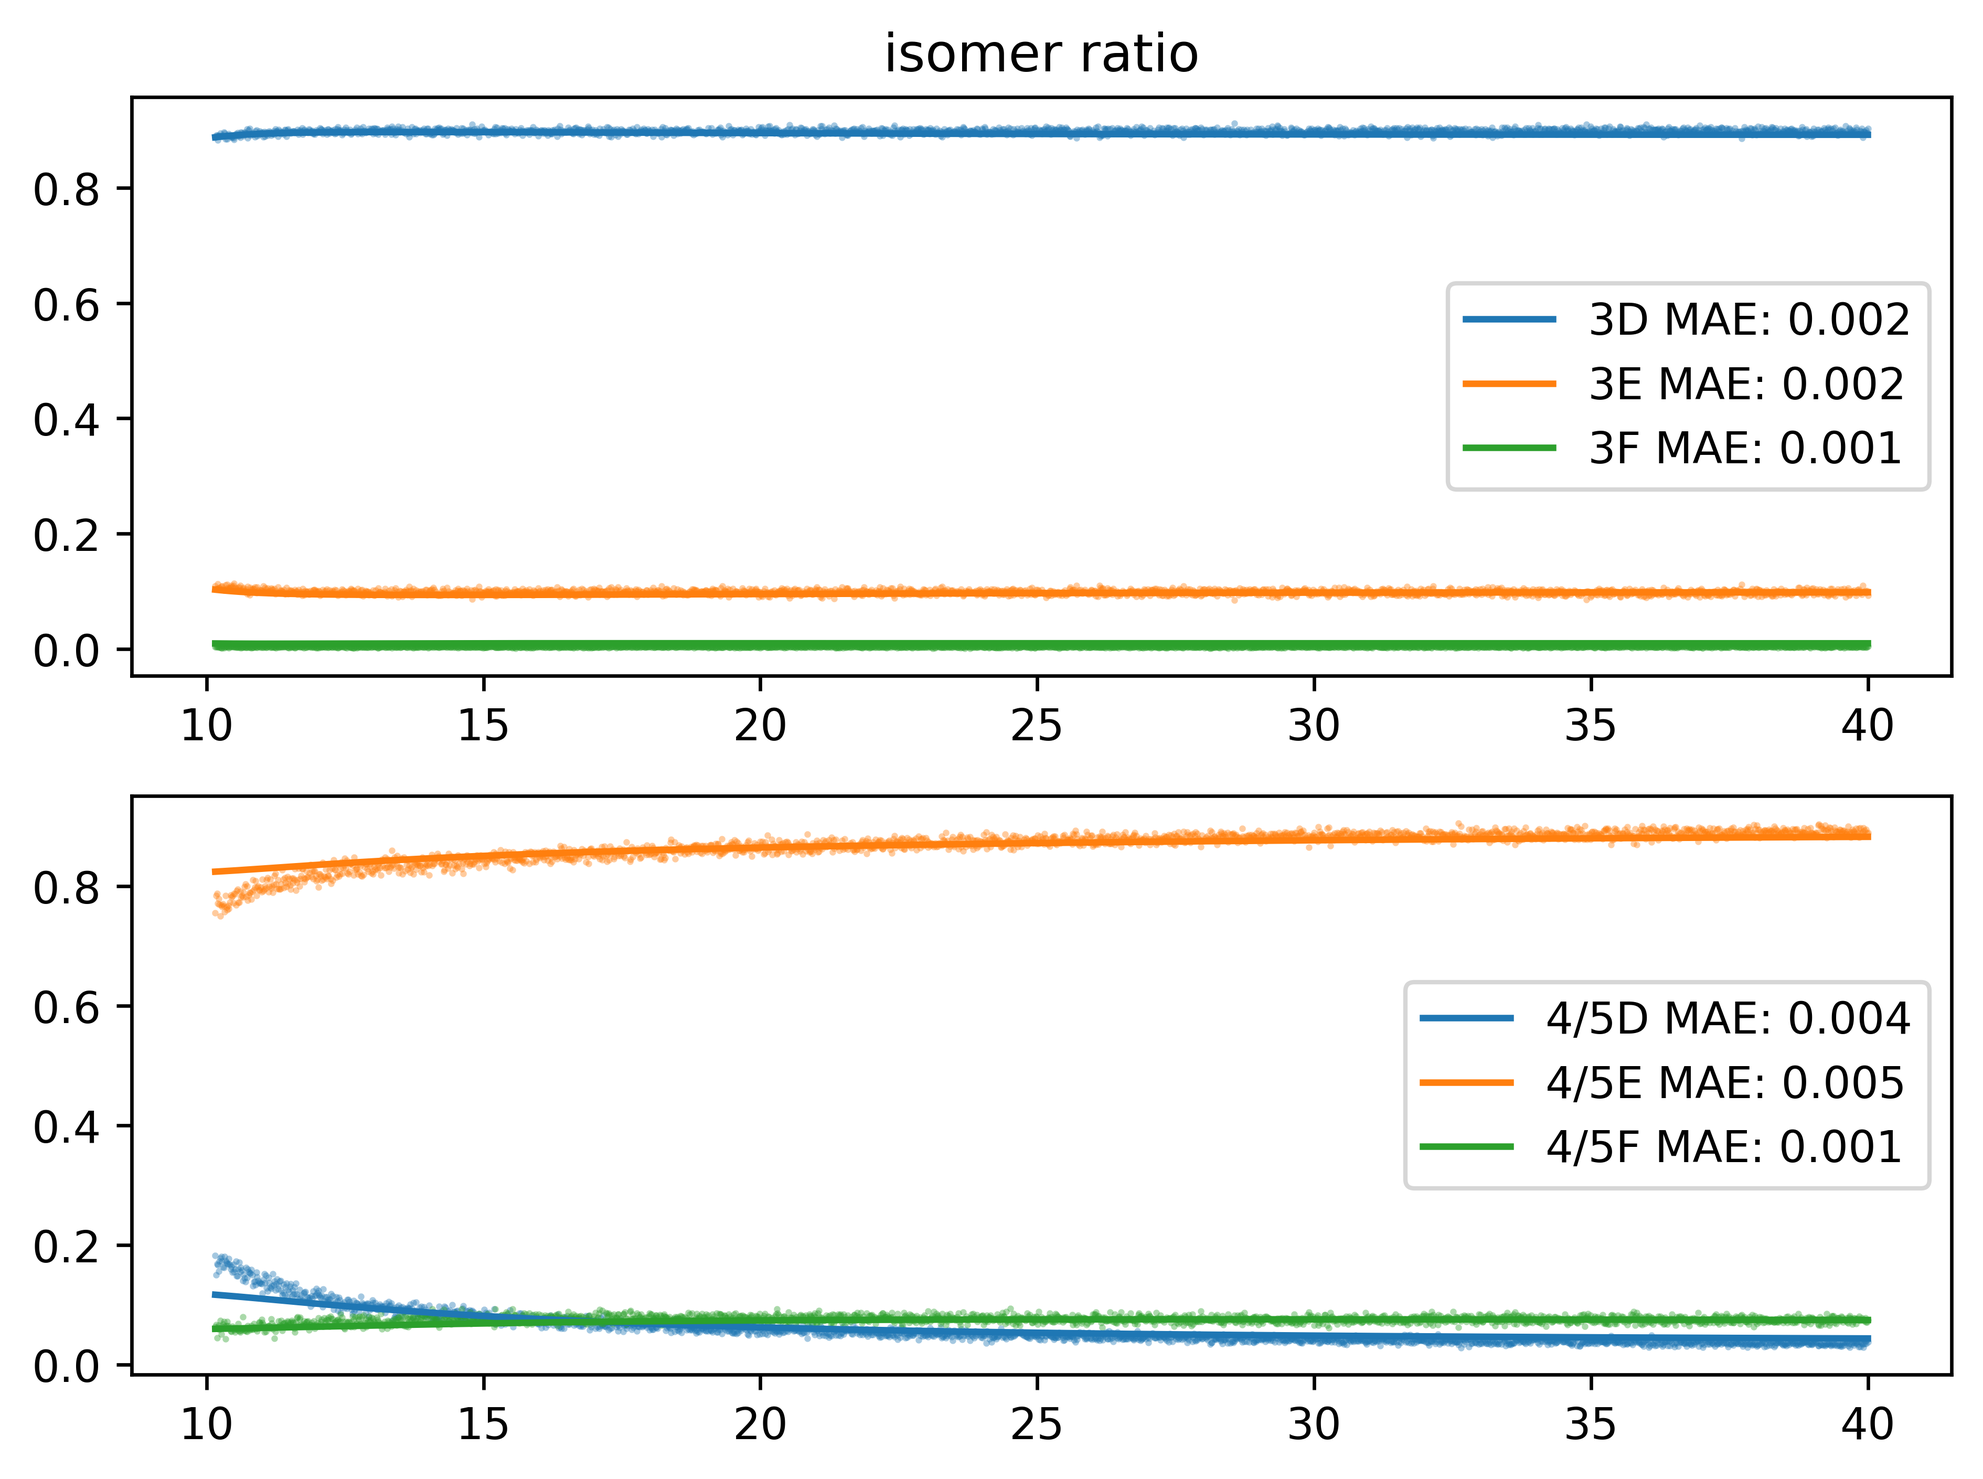
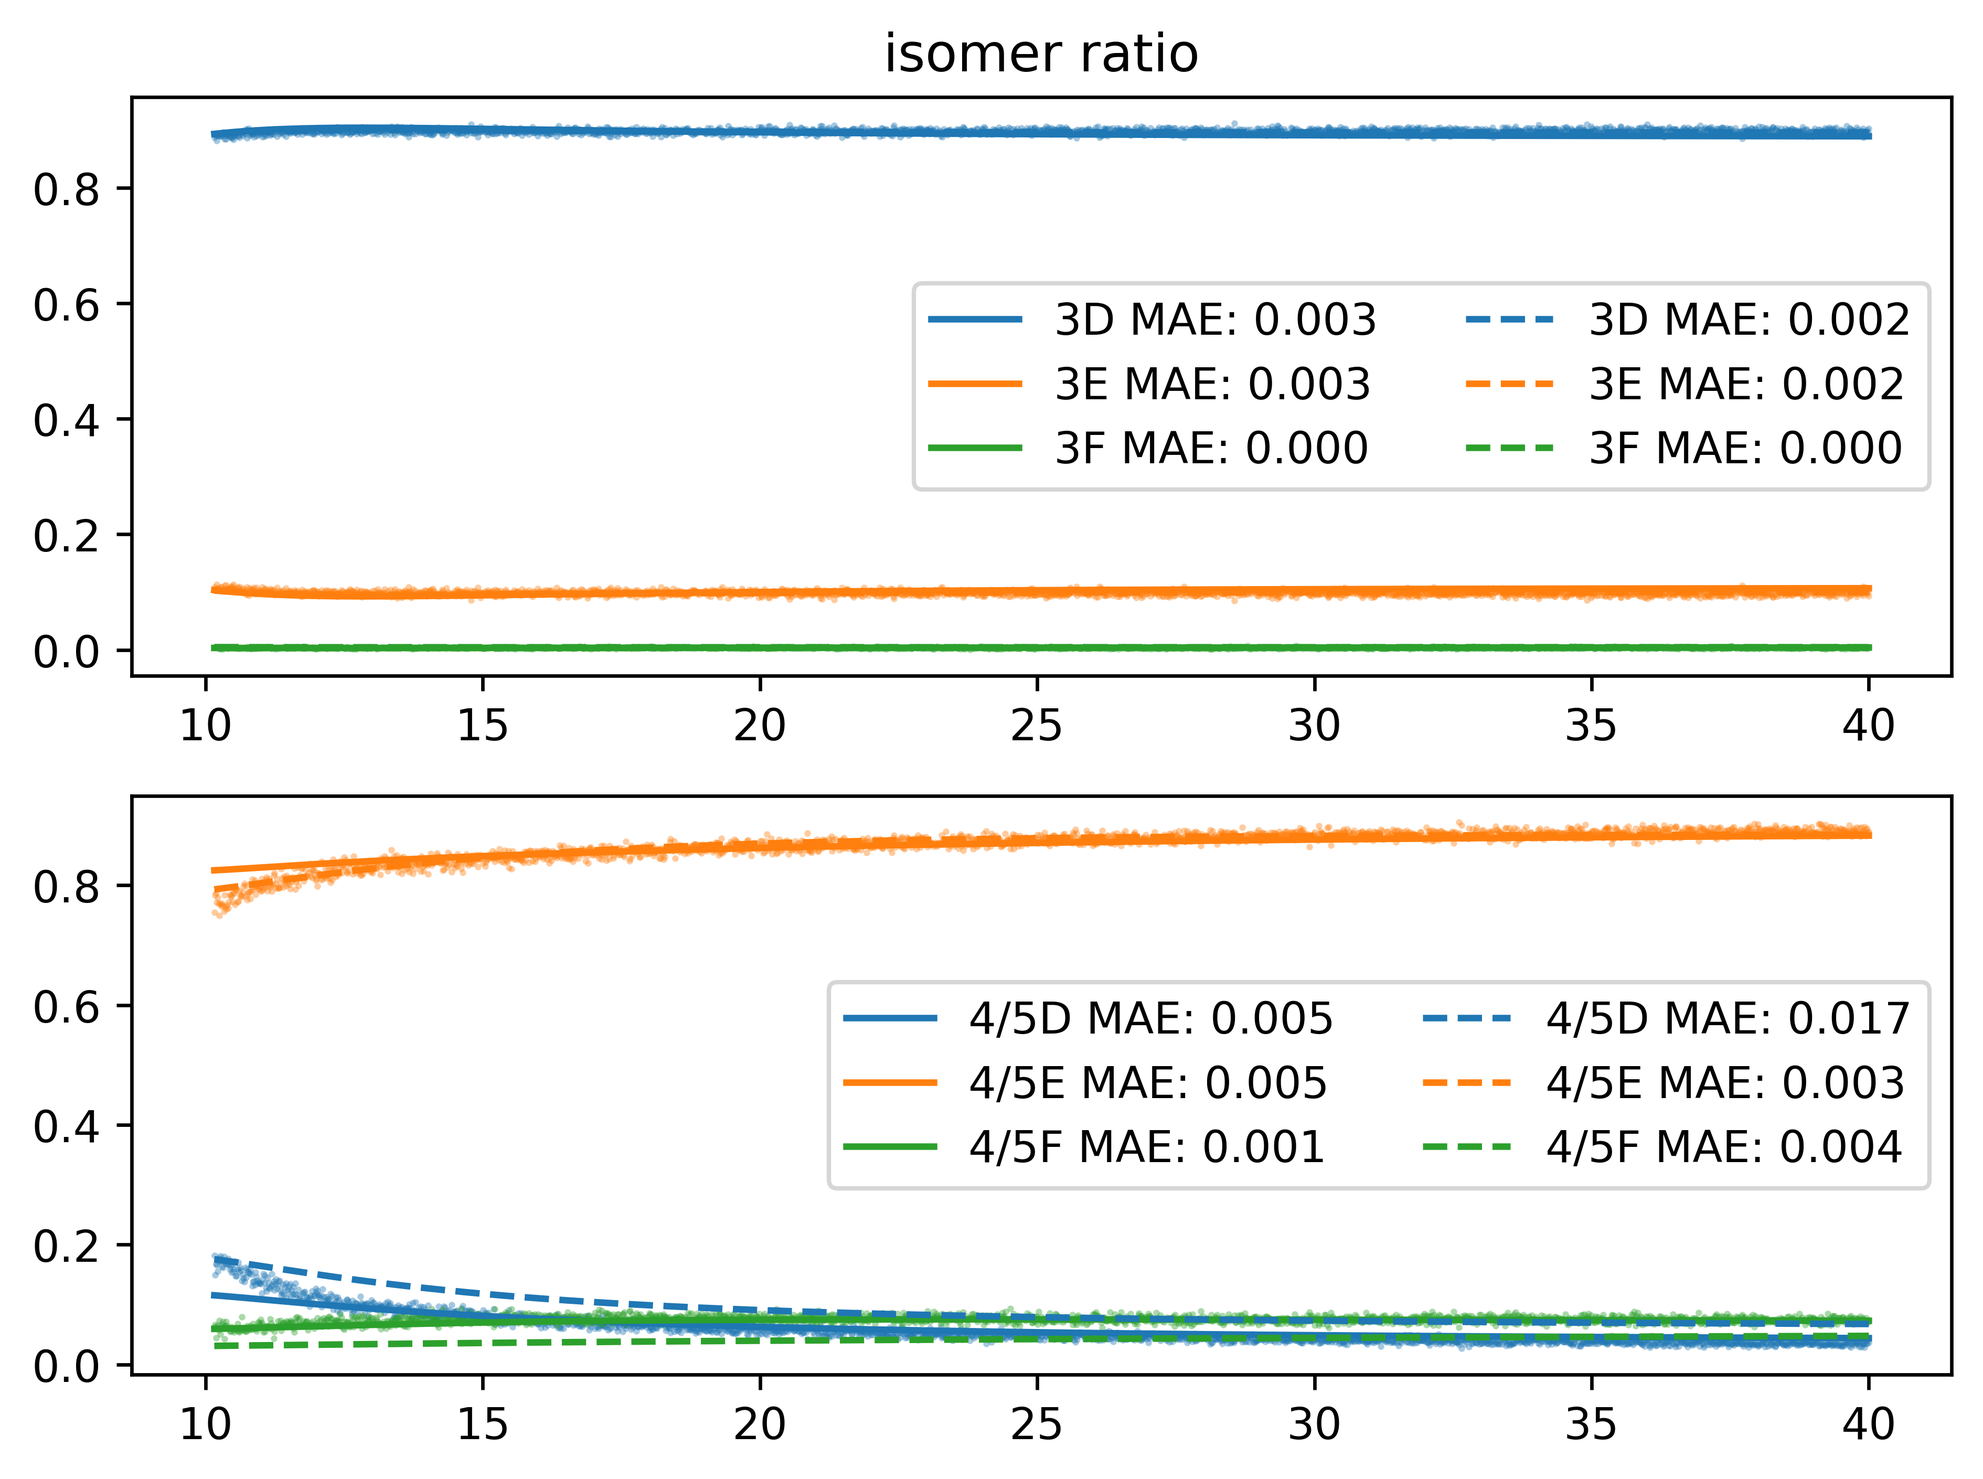
extended extensive_example.rst

diff --git a/docs/source/extensive_example.rst b/docs/source/extensive_example.rst
@@ -253,6 +253,10 @@ The next step is to the create our RateConstantOptimizer class. We will apply th
 2. isomer ratio: The ratio of e.g. 3D / (3D + 3E + 3F).
 3. TIC shape: how well the curve represent the shape of the TIC curve.
 
+It is important to note that we should not fit on the TIC if we have normalized the data with respect to it. If we
+consider the system A -> B, where the ionization efficiency are 1 for A, 2 for B respectively, we can see that the
+total TIC will increase over time. By normalizing with respect to the TIC we remove this information from the data.
+
 We will apply weights to each type of error to make sure that the system prioritizes getting the label ratio right, but
 would see it as a benefit if the isomer ratio also fits well. In the optimized model the three different kinds of error
 are relatively similar to each other in the contribution to the total error. The weight of all isomers F has been
@@ -310,7 +314,8 @@ drastically decreased because of the large amount of noise in this data.
                 sum_all_isomers = data[[f'{intermediate}{isomer}' for isomer in ISOMERS]].sum(axis=1)
                 for isomer in ISOMERS:
                     chemical = f"{intermediate}{isomer}"  # 3D, 3E, 3F, 4/5D, 4/5E, 3/5F
-                    chemical_iso_split = f"int_{intermediate}_iso_{isomer}"  # allows for easy modification of weight. str.contains('int_1') is much more specific than just '1'
+                    # allows for easy modification of weight. str.contains('int_1') is much more specific than just '1'
+                    chemical_iso_split = f"int_{intermediate}_iso_{isomer}"
 
                     sum_chemical = data[[chemical, f"{chemical}'"]].sum(axis=1)
 
@@ -390,11 +395,11 @@ Or multiple times:
 
     RCO.optimize_multiple(
         path='./optimization_multiple/',
-        n_runs=42,
+        n_runs=200,  # This take a long while ...
         x_description=dimension_descriptions,
         x_bounds=bounds,
-        maxiter=200,
-        n_jobs=-2,  # uses all but 1 cpu cores available
+        maxiter=100000,
+        n_jobs=-1,   # uses all but 1 cpu cores available; this took a day or 2 ...
     )
 
 .. _extensiveVisuals:
@@ -405,25 +410,29 @@ The :class:`visualize.VisualizeSingleModel` can be used to make various kinds of
 
 .. code-block:: python
 
-    from delayed_reactant_labeling.optimize import OptimizedModel
-    from delayed_reactant_labeling.visualize import VisualizeSingleModel
+    from delayed_reactant_labeling.optimize import OptimizedMultipleModels
+    from delayed_reactant_labeling.visualize import VisualizeModel
 
-    model  = OptimizedModel('./optimization/')
-    VSM = VisualizeSingleModel(
-        path='./images/',
-        model=model,
+    models = OptimizedMultipleModels('./optimization_multiple')
+
+    VM = VisualizeModel(
+        image_path='./images/',
+        model=models.best,  # this assumption would be made automatically, but raises a warning
+        models=models,
         rate_constant_optimizer=RCO,
-        hide_params=constraints['upper']==0,
-        extensions=['.png', 'svg'])  # having a leading . does not matter
+        hide_params=constraints['upper'] == 0,
+        extensions=['.png', 'svg'], overwrite_image=True)  # having a leading '.' does not matter
 
+Model progression
+~~~~~~~~~~~~~~~~~
 The ratio of 6D to 6D + 6E can be plotted together with the error of the model as a function of the iteration number.
 
 .. code-block:: python
 
-    VSM.plot_optimization_progress(ratio=['6D', ['6D', '6E']])
+    VM.plot_optimization_progress(ratio=('6D', ['6D', '6E']))
 
 .. image:: images/extensive_example/plot_optimization_progress.png
-    :width: 600
+    :width: 640
     :align: center
 
 We can plot its path through a dimensionally reduced space as follows:
@@ -431,15 +440,17 @@ The figsize keyword is supplied to ensure that the figure is square.
 
 .. code-block:: python
 
-    VSM.plot_path_in_pca(PC1=0, PC2=1, figsize=(6.4, 6.4))
+    VM.plot_path_in_pca(PC1=0, PC2=1, figsize=(6.4, 6.4))
 
 .. image:: images/extensive_example/plot_path_in_pca.png
-    :width: 600
+    :width: 640
     :align: center
 
+Model output
+~~~~~~~~~~~~
 The found rate constants can easily be plotted using the ``plot_grouped_by`` function. From this we can see
-that most of the found rate constants in our model are similar in size to those found by Hilgers.
-However, the backwards reactions seem to have a large difference.
+that there are large deviations compared to the constants that Hilgers found. See the section :ref:`visualize_multiple`
+for a more in depth comparison for the models that have been found.
 
 .. code-block:: python
 
@@ -455,24 +466,21 @@ However, the backwards reactions seem to have a large difference.
         'ion': 0.025,
     }, name='Hilgers')
 
-    fig, axs = VSM.plot_grouped_by(
-        model.optimal_x.rename('model'),
+    VM.plot_grouped_by(
+        VM.model.optimal_x.rename('model'),
         rate_constants_Hilgers,
-        group_by=['k-'], file_name='plot_x', xtick_rotation=90)
-    axs[0].set_ylabel('backwards')
-    axs[0].set_yscale('log')
-    axs[1].set_ylabel('forwards')
-    axs[1].set_yscale('log')
-    VSM.save_image(fig, 'plot_x')
+        group_by=['k1_', 'k2_', 'k3_', 'k4_', 'k-2', 'ion'],
+        file_name='plot_x', xtick_rotation=90, show_remaining=False, figsize=(6.4, 8))
 
 .. image:: images/extensive_example/plot_x.png
-    :width: 600
+    :width: 640
     :align: center
 
-The errors of the model can be plotted using the ``plot_grouped_by`` function.
-The total error of the model is 0.196 (model_weighed_errors.sum()), which is approximately 83% of the error found by
+The errors of the model can also be plotted using the ``plot_grouped_by`` function.
+The total error of the model is 0.195 (model_weighed_errors.sum()), which is approximately 83% of the error found by
 Hilgers. However, they did not put the same weights on the these parameters, so it is logical that their fit will be
-different.
+different. See :ref:`visualize_error_curves` for detailed insights into the shapes of the curves, that define these
+errors.
 
 .. code-block:: python
 
@@ -482,27 +490,28 @@ different.
     Hilgers_pred = RCO.create_prediction(rate_constants_Hilgers.values, rate_constants_Hilgers.index.tolist())
     Hilgers_weighed_errors = RCO.weigh_errors(errors=RCO.calculate_errors(Hilgers_pred)).rename('Hilgers')
 
-    fig, axs = VSM.plot_grouped_by(
+    VM.plot_grouped_by(
         model_weighed_errors,
         Hilgers_weighed_errors,
         group_by=['ratio_label', 'ratio_isomer', 'TIC-normal', 'TIC-labeled'], file_name='plot_errors', xtick_rotation=20,
         figsize=(6, 8), sharey='col')
-    VSM.save_image(fig, 'plot_errors')
 
 .. image:: images/extensive_example/plot_errors.png
-    :width: 600
+    :width: 640
     :align: center
 
 The percentage of chemicals which belong to pathway D or E can be plotted as follows:
 
 .. code-block:: python
 
-    VSM.plot_enantiomer_ratio(
+    fig, ax = VM.plot_enantiomer_ratio(
         group_by=['3', '4/5', '6'],
-        ratio_of=['D', 'E'],
+        ratio_of=['D', 'E', 'F'],
         experimental=experimental,
         prediction=model_pred,
         warn_label_assumption=False)
+    ax.set_ylim(0, 1)
+    VM.save_image(fig, 'plot_enantiomer_ratio')
 
 Because both the labeled compound and the non-labeled compound have very similar names, (3D vs 3D'), we know
 that the identifiers given in ``group_by`` and ``ratio_of`` wont be able to seperate these two cases from each other.
@@ -512,94 +521,168 @@ to false. It is fine to plot only the ratios for the non-labeled compounds as th
 identical for the non-labeled and labeled compounds.
 
 .. image:: images/extensive_example/plot_enantiomer_ratio.png
-    :width: 600
+    :width: 640
     :align: center
 
+Heat maps
+~~~~~~~~~
 The changes in the parameters can be plotted over time by using a heatmap as follows:
 
 .. code-block:: python
 
-    VSM.plot_rate_over_time(log_scale=True, x_min=1e-4)
+    VM.plot_rate_over_time(log_scale=True, x_min=1e-4)
 
 .. image:: images/extensive_example/plot_rate_over_time.png
-    :width: 600
+    :width: 640
     :align: center
 
 The sensitivity of the model, for each parameter with respect to a change in its value, can be shown as follows:
 
 .. code-block:: python
 
-    VSM.plot_rate_sensitivity(x_min=1e-6, x_max=100, steps=101, max_error=0.5)
+    VM.plot_rate_sensitivity(x_min=1e-6, x_max=100, steps=101, max_error=0.5)
 
 .. image:: images/extensive_example/plot_rate_sensitivity.png
-    :width: 600
+    :width: 640
     :align: center
 
+.. _visualize_error_curves:
+
+Error curves
+~~~~~~~~~~~~
 We can visualize the curves that are used for the calculation of the error as follows:
 
 .. code-block:: python
 
+    def plot_curves(data, errors=None, **style):
+        """if errors are given, give each line a label including the error for that curve"""
+        plot_label = True if errors is not None else False
+        for i, intermediate in enumerate(INTERMEDIATES):
+            for j, isomer in enumerate(ISOMERS):
+                chemical_iso_split = f"int_{intermediate}_iso_{isomer}"
+                chemical = f"{intermediate}{isomer}"
+
+                # plot label ratio, the curve of the labeled compound is the same, by definition, as 1 - unlabeled
+                label = f"{chemical} MAE: {errors[f'ratio_label_{chemical_iso_split}']:.3f}" if plot_label else None
+                axs_label[j, 0].plot(time, data[f"ratio_label_{chemical_iso_split}"], color=f"C{i}", label=label, **style)
+                axs_label[j, 0].plot(time, 1 - data[f"ratio_label_{chemical_iso_split}"], color="tab:gray", **style)
+
+                # isomer ratio
+                label = f"{chemical} MAE: {errors[f'ratio_isomer_{chemical_iso_split}']:.3f}" if plot_label else None
+                axs_isomer[i, 0].plot(time, data[f"ratio_isomer_{chemical_iso_split}"], color=f"C{j}", label=label, **style)
+
+                # TIC shape
+                label = f"{chemical} MAE: {errors[f'TIC-normal_{chemical_iso_split}']:.3f}" if plot_label else None
+                axs_TIC[j, i].plot(time, data[f"TIC-normal_{chemical_iso_split}"], color="tab:blue", label=label, **style)
+
+                # TIC labeled shape
+                label = f"{chemical}{LABEL} MAE: {errors[f'TIC-labeled_{chemical_iso_split}']:.3f}" if plot_label else None
+                axs_TIC[j, i].plot(time, data[f"TIC-labeled_{chemical_iso_split}"], color="tab:orange", label=label, **style)
+
+    # manual plot of curves
     fig_label, axs_label = plt.subplots(3, 1, tight_layout=True, figsize=(8, 8), squeeze=False)
     axs_label[0, 0].set_title('label ratio')
     fig_isomer, axs_isomer = plt.subplots(2, 1, tight_layout=True, squeeze=False)
     axs_isomer[0, 0].set_title('isomer ratio')
-    fig_TIC, axs_TIC = plt.subplots(3, 2, tight_layout=True, figsize=(8, 8), squeeze=False)
+    fig_TIC, axs_TIC = plt.subplots(3, 2, tight_layout=True, figsize=(12, 8), squeeze=False)
     axs_TIC[0, 0].set_title('TIC shape')
-    marker_settings = {"alpha": 0.4, "marker": ".", "s": 1}
 
-    best_prediction: pd.DataFrame = RCO.create_prediction(model.optimal_x, model.x_description)
+    # experimental
+    plot_curves(VM.RCO.experimental_curves, linestyle='', marker='.', ms=1, alpha=0.4)
 
-    true = RCO.experimental_curves
-    pred = RCO.calculate_curves(best_prediction)
+    # best model
+    pred = VM.RCO.create_prediction(VM.model.optimal_x.values, VM.model.optimal_x.index)
+    curves = VM.RCO.calculate_curves(pred)
+    errors = VM.RCO.weigh_errors(VM.RCO.calculate_errors(pred))
+    plot_curves(curves, errors, linestyle='-')
 
-    errors = RCO.weigh_errors(RCO.calculate_errors(best_prediction))
-
-    for i, intermediate in enumerate(INTERMEDIATES):
-        # sum does not have to be recalculated between the isomer runs
-        sum_all_isomers = best_prediction[[intermediate+isomer for isomer in ISOMERS]].sum(axis=1)
-        for j, isomer in enumerate(ISOMERS):
-            # the "iso_" prefix is given to each chemical so that we can search the strings for e.g. "iso_A" and not get a match for label
-            chemical_iso_split = f"int_{intermediate}_iso_{isomer}"
-            chemical = f"{intermediate}{isomer}"
-
-            # plot label ratio
-            axs_label[j, 0].plot(time, pred[f"ratio_label_{chemical_iso_split}"], color=f"C{i}",
-                label=f"{chemical_iso_split} MAE: {errors[f'ratio_label_{chemical_iso_split}']:.3f}")
-            axs_label[j, 0].scatter(time, true[f"ratio_label_{chemical_iso_split}"], color=f"C{i}", **marker_settings)
-            # the curve of the labeled compound is the same, by definition, as 1 - unlabeled
-            axs_label[j, 0].plot(time, 1-pred[f"ratio_label_{chemical_iso_split}"], color="tab:gray")
-            axs_label[j, 0].scatter(time, 1-true[f"ratio_label_{chemical_iso_split}"], color="tab:gray", **marker_settings)
-
-            # isomer ratio
-            axs_isomer[i, 0].plot(time, pred[f"ratio_isomer_{chemical_iso_split}"],
-                label=f"{chemical} MAE: {errors[f'ratio_isomer_{chemical_iso_split}']:.3f}")
-            axs_isomer[i, 0].scatter(time, RCO.experimental_curves[f"ratio_isomer_{chemical_iso_split}"], **marker_settings)
-
-            # TIC shape
-            axs_TIC[j, i].plot(time, pred[f"TIC-normal_{chemical_iso_split}"], color="tab:blue",
-                               label=f"{chemical} MAE: {errors[f'TIC-normal_{chemical_iso_split}']:.3f}")
-            axs_TIC[j, i].scatter(time, RCO.experimental_curves[f"TIC-normal_{chemical_iso_split}"], color="tab:blue", **marker_settings)
-
-            axs_TIC[j, i].plot(time, pred[f"TIC-labeled_{chemical_iso_split}"], color="tab:gray",
-                label=f"""{chemical}{LABEL} MAE: {errors[f"TIC-labeled_{chemical_iso_split}"]:.3f}""")
-            axs_TIC[j, i].scatter(time, RCO.experimental_curves[f"TIC-labeled_{chemical_iso_split}"], color="tab:gray", **marker_settings)
+    # Hilgers model
+    pred = VM.RCO.create_prediction(rate_constants_Hilgers.values, rate_constants_Hilgers.index)
+    curves = VM.RCO.calculate_curves(pred)
+    errors = VM.RCO.weigh_errors(VM.RCO.calculate_errors(pred))
+    plot_curves(curves, errors, linestyle='--')
 
     for ax in np.concatenate([axs_label.flatten(), axs_isomer.flatten(), axs_TIC.flatten()]):
-        ax.legend()
+        ax.legend(ncol=2)
+    VM.save_image(fig_label, 'label')
+    VM.save_image(fig_isomer, 'isomer')
+    VM.save_image(fig_TIC, 'TIC')
 
-    VSM.save_image(fig_label, 'label')
-    VSM.save_image(fig_isomer, 'isomer')
-    VSM.save_image(fig_TIC, 'TIC')
+The data of Hilgers will be plotted as a dashed line, whereas the found curves will be plotted with a full line.
 
 .. image:: images/extensive_example/label.png
-    :width: 600
+    :width: 640
     :align: center
 
 .. image:: images/extensive_example/isomer.png
-    :width: 600
+    :width: 640
     :align: center
 
 .. image:: images/extensive_example/TIC.png
-    :width: 600
+    :width: 1200
     :align: center
 
+.. _visualize_multiple:
+
+Multiple guesses
+~~~~~~~~~~~~~~~~
+The following plots can be made for multiple optimization processes only.
+
+.. code-block:: python
+
+    VM.plot_error_all_runs()
+    VM.plot_error_all_runs(60, file_name='plot_error_all_runs_zoom_in')
+
+.. image:: images/extensive_example/plot_error_all_runs.png
+    :width: 640
+    :align: center
+
+.. image:: images/extensive_example/plot_error_all_runs_zoom_in.png
+    :width: 640
+    :align: center
+
+.. code-block:: python
+
+    VM.plot_ratio_all_runs(ratio=('6D', ['6D', '6E']), top_n=60)
+
+.. image:: images/extensive_example/plot_ratio_all_runs.png
+    :width: 640
+    :align: center
+
+We can check out the distribution of the rate constants for the best plateau as follows:
+
+.. code-block:: python
+
+    VM.plot_x_all_runs(slice(8), file_name='best')
+
+.. image:: images/extensive_example/best.png
+    :width: 640
+    :align: center
+
+Because there are three main plateaus, and the figure above shows minimal variation within a  plateau (same for the other
+plateaus, not shown here), we can just take a model for each plateau and compare them:
+
+.. code-block:: python
+
+    fig, axs = VM.plot_grouped_by(
+        models.get_model(0).optimal_x.rename('model_0'),
+        rate_constants_Hilgers,
+        models.get_model(8).optimal_x.rename('model_8'),
+        models.get_model(15).optimal_x.rename('model_15'),
+        group_by=['k1_', 'k2_', 'k3_', 'k4_', 'k-2', 'ion'],
+        show_remaining=False, figsize=(6.4, 8), file_name='x_comparison_multiple_models')
+    for ax in axs:
+        ax.set_yscale('log')
+    VM.save_image(fig, 'x_comparison_multiple_models')
+
+.. image:: images/extensive_example/x_comparison_multiple_models.png
+    :width: 640
+    :align: center
+
+.. code-block:: python
+
+    VM.plot_biplot_all_runs(slice(60))
+
+.. image:: images/extensive_example/plot_biplot_all_runs.png
+    :width: 640
+    :align: center
